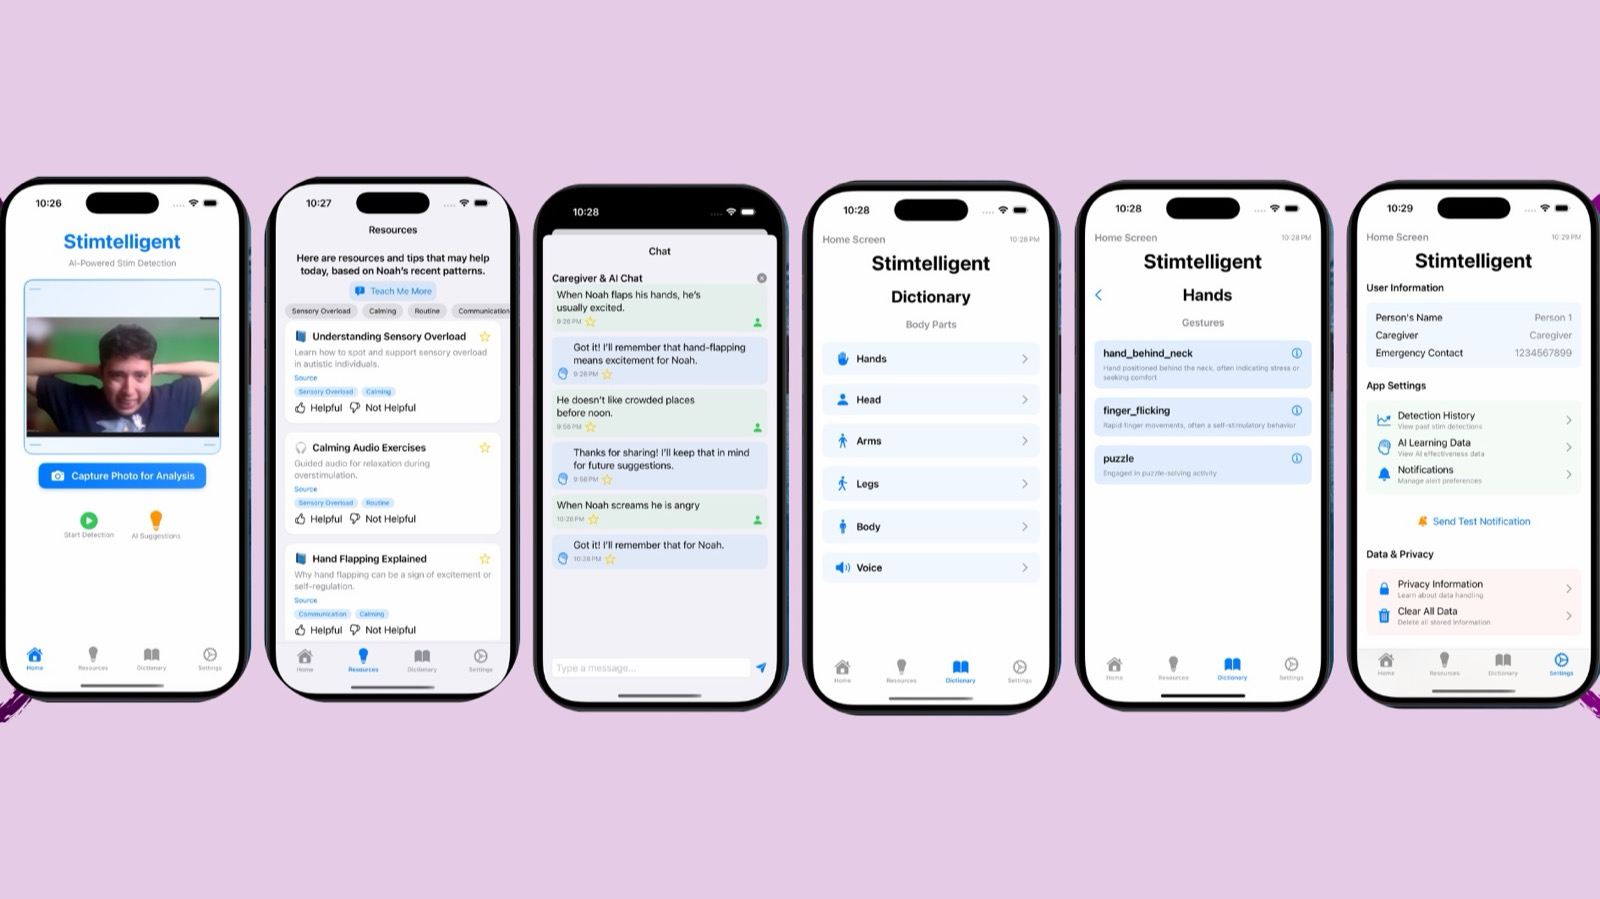
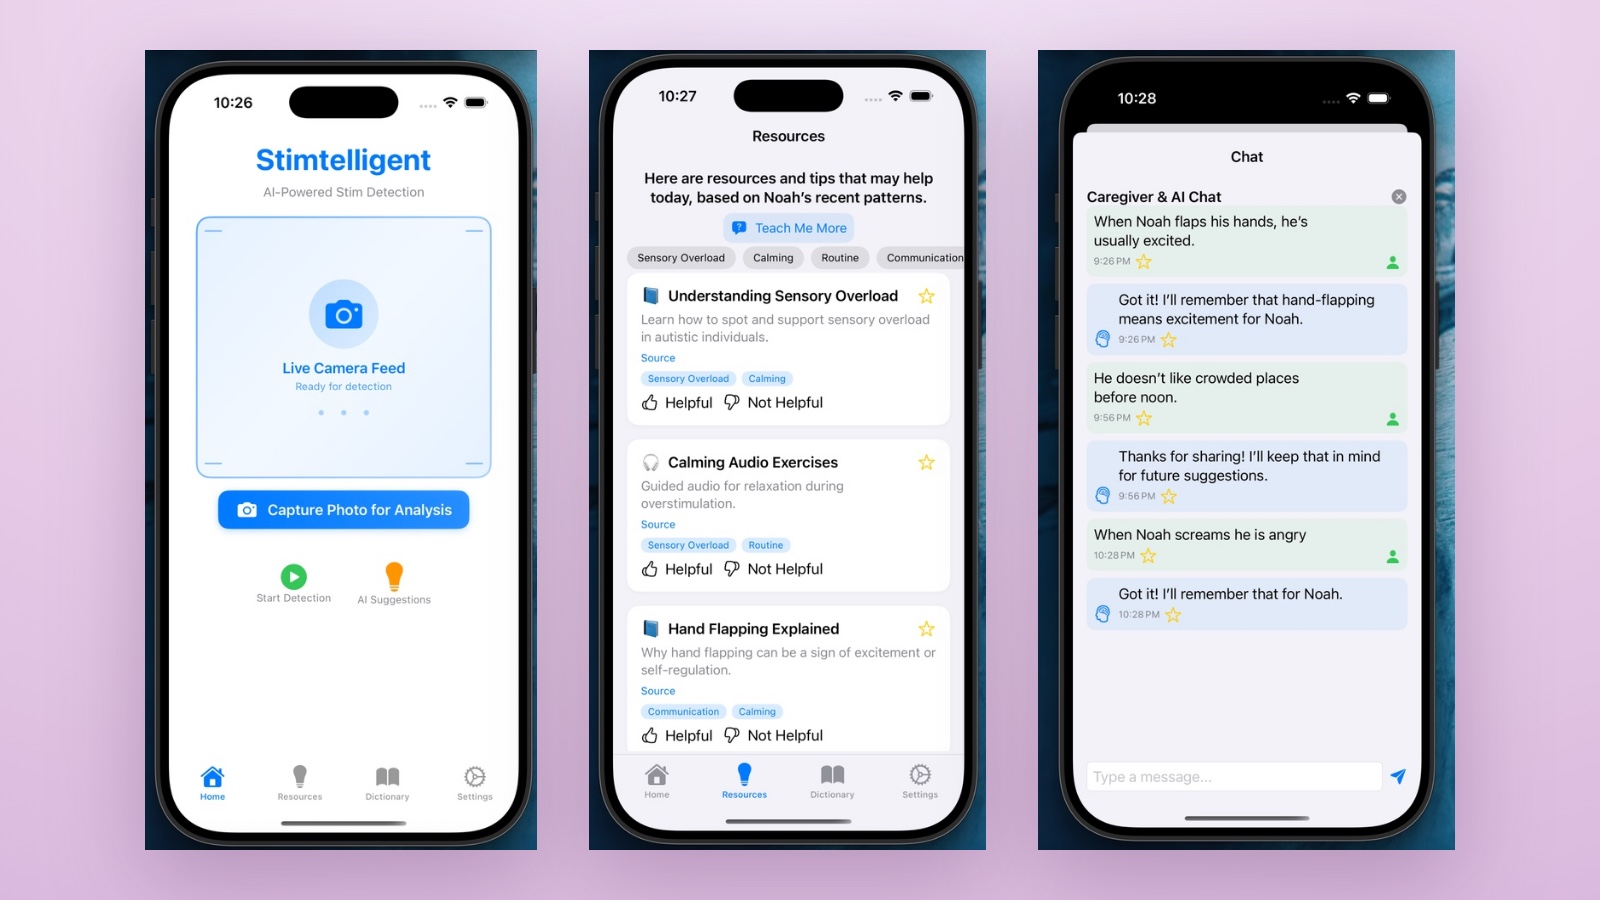
Split Stimtelligent into individual screens, add a lightbox
Six phones across one card thumbnail left every screen about 55px wide -
unreadable no matter the file quality. Two changes fix that:

- Pulled the individual screens out of ECC Stimtelligent.pdf, which carries
  them at ~460x940 rather than the ~300x620 available by slicing the flat
  strip. Trimmed each to its device frame and saved at JPEG q92.
- The card now shows three phones instead of six, so each is roughly twice
  the width it was.

The real fix is a lightbox: every image on the site is now clickable and
opens full size over a dark backdrop, with a zoom affordance on hover.
Stimtelligent's card opens all seven screens as a captioned gallery; a
case-study carousel slide opens its whole set starting where you clicked;
anything else opens on its own. Arrow keys and Escape work, focus is
restored on close, and it respects prefers-reduced-motion.

diff --git a/js/main.js b/js/main.js
@@ -348,6 +348,101 @@
       .catch(() => renderRepos(FALLBACK));
   }
 
+  /* ---------------------------------------------------- lightbox */
+  // Card thumbnails are small by necessity. Clicking one opens it full size —
+  // for Stimtelligent that means the individual screens rather than the strip.
+  const lb = $('#lightbox');
+  if (lb) {
+    const lbImg = $('#lbImage');
+    const lbCap = $('#lbCaption');
+    const prevBtn = $('[data-lb-prev]', lb);
+    const nextBtn = $('[data-lb-next]', lb);
+    let items = [];
+    let at = 0;
+    let lastFocus = null;
+
+    function galleryFor(fig) {
+      // an explicit gallery wins
+      const raw = fig.dataset.gallery;
+      if (raw) {
+        try { return { list: JSON.parse(raw), start: 0 }; } catch (e) { /* fall through */ }
+      }
+      // a carousel slide opens its whole set, starting where you clicked
+      const track = fig.closest('.shots__track');
+      if (track) {
+        const slides = $$('.shot', track);
+        return {
+          list: slides.map((sl) => ({
+            src: sl.querySelector('img').getAttribute('src'),
+            cap: (sl.querySelector('figcaption') || {}).textContent || '',
+          })),
+          start: slides.indexOf(fig),
+        };
+      }
+      const img = fig.querySelector('img');
+      return { list: [{ src: img.getAttribute('src'), cap: img.getAttribute('alt') || '' }], start: 0 };
+    }
+
+    function render() {
+      const it = items[at];
+      lbImg.src = it.src;
+      lbImg.alt = it.cap || '';
+      lbCap.textContent = items.length > 1
+        ? `${it.cap}  ·  ${at + 1} / ${items.length}`
+        : it.cap;
+      const many = items.length > 1;
+      prevBtn.hidden = !many;
+      nextBtn.hidden = !many;
+    }
+
+    function open(fig) {
+      const g = galleryFor(fig);
+      items = g.list;
+      at = g.start;
+      lastFocus = document.activeElement;
+      lb.hidden = false;
+      document.body.style.overflow = 'hidden';
+      render();
+      $('[data-lb-close]', lb).focus();
+    }
+
+    function close() {
+      lb.hidden = true;
+      document.body.style.overflow = '';
+      if (lastFocus) lastFocus.focus();
+    }
+
+    const step = (d) => { at = (at + d + items.length) % items.length; render(); };
+
+    $$('.shot').forEach((fig) => {
+      // a small zoom affordance, so it reads as clickable
+      const hint = document.createElement('span');
+      hint.className = 'shot__zoom';
+      hint.setAttribute('aria-hidden', 'true');
+      hint.innerHTML = '<svg viewBox="0 0 24 24" width="15" height="15" fill="none" stroke="currentColor" stroke-width="2.2" stroke-linecap="round"><circle cx="11" cy="11" r="7"/><path d="M20 20l-3.6-3.6M11 8.4v5.2M8.4 11h5.2"/></svg>';
+      fig.appendChild(hint);
+
+      fig.tabIndex = 0;
+      fig.setAttribute('role', 'button');
+      fig.setAttribute('aria-label', 'Open image full size');
+      fig.addEventListener('click', () => open(fig));
+      fig.addEventListener('keydown', (e) => {
+        if (e.key === 'Enter' || e.key === ' ') { e.preventDefault(); open(fig); }
+      });
+    });
+
+    $$('[data-lb-close]', lb).forEach((el) => el.addEventListener('click', close));
+    prevBtn.addEventListener('click', () => step(-1));
+    nextBtn.addEventListener('click', () => step(1));
+
+    document.addEventListener('keydown', (e) => {
+      if (lb.hidden) return;
+      if (e.key === 'Escape') { e.preventDefault(); close(); }
+      else if (e.key === 'ArrowLeft' && items.length > 1) { e.preventDefault(); step(-1); }
+      else if (e.key === 'ArrowRight' && items.length > 1) { e.preventDefault(); step(1); }
+    });
+  }
+
   /* ---------------------------------------------------- command palette */
   const palette = $('#palette');
   const paletteInput = $('#paletteInput');

diff --git a/index.html b/index.html
@@ -18,7 +18,7 @@
 <link rel="preconnect" href="https://fonts.googleapis.com" />
 <link rel="preconnect" href="https://fonts.gstatic.com" crossorigin />
 <link href="https://fonts.googleapis.com/css2?family=Instrument+Serif:ital@0;1&family=Space+Grotesk:wght@400;500;600;700&family=JetBrains+Mono:wght@400;500&display=swap" rel="stylesheet" />
-<link rel="stylesheet" href="css/styles.css?v=3" />
+<link rel="stylesheet" href="css/styles.css?v=4" />
 <noscript><style>.reveal{opacity:1!important;transform:none!important}.hero__canvas,.scroll-cue{display:none}</style></noscript>
 </head>
 <body>
@@ -515,7 +515,7 @@
       </article>
 
       <article class="card reveal" data-cat="ml app a11y">
-        <figure class="shot shot--thumb" data-src="assets/shots/stimtelligent.jpg">
+        <figure class="shot shot--thumb" data-src="assets/shots/stimtelligent.jpg" data-gallery='[{"src":"assets/shots/stim/stim-01-detection.jpg","cap":"Live detection — the camera feed the caregiver points at a moment"},{"src":"assets/shots/stim/stim-02-resources.jpg","cap":"Resources chosen from the individual\u2019s recent patterns"},{"src":"assets/shots/stim/stim-03-chat.jpg","cap":"Caregiver and AI chat — the app learns what each stim means"},{"src":"assets/shots/stim/stim-04-dictionary.jpg","cap":"Stim dictionary, organised by body part"},{"src":"assets/shots/stim/stim-05-gestures.jpg","cap":"Gestures within a body part, each with an explanation"},{"src":"assets/shots/stim/stim-06-settings.jpg","cap":"Settings — detection history and on-device data controls"},{"src":"assets/shots/stim/stim-07-notification.jpg","cap":"A daily prediction, delivered on the lock screen"}]'>
           <img src="assets/shots/stimtelligent.jpg" alt="Six Stimtelligent screens: live stim detection, caregiver resources, AI chat, the stim dictionary, and settings" loading="lazy" />
         </figure>
         <div class="card__body">
@@ -841,6 +841,26 @@
   </div>
 </footer>
 
+<!-- ============================ LIGHTBOX ============================ -->
+<div class="lb" id="lightbox" hidden>
+  <div class="lb__backdrop" data-lb-close></div>
+  <div class="lb__box" role="dialog" aria-modal="true" aria-label="Image viewer">
+    <button class="lb__close" data-lb-close aria-label="Close viewer">
+      <svg viewBox="0 0 24 24" width="18" height="18" fill="none" stroke="currentColor" stroke-width="2.2" stroke-linecap="round"><path d="M6 6l12 12M18 6L6 18"/></svg>
+    </button>
+    <button class="lb__nav lb__nav--prev" data-lb-prev aria-label="Previous image">
+      <svg viewBox="0 0 24 24" width="20" height="20" fill="none" stroke="currentColor" stroke-width="2.4" stroke-linecap="round" stroke-linejoin="round"><path d="M15 6l-6 6 6 6"/></svg>
+    </button>
+    <figure class="lb__figure">
+      <img id="lbImage" alt="" />
+      <figcaption id="lbCaption"></figcaption>
+    </figure>
+    <button class="lb__nav lb__nav--next" data-lb-next aria-label="Next image">
+      <svg viewBox="0 0 24 24" width="20" height="20" fill="none" stroke="currentColor" stroke-width="2.4" stroke-linecap="round" stroke-linejoin="round"><path d="M9 6l6 6-6 6"/></svg>
+    </button>
+  </div>
+</div>
+
 <!-- ============================ COMMAND PALETTE ============================ -->
 <div class="palette" id="palette" hidden>
   <div class="palette__backdrop" data-palette-close></div>
@@ -854,6 +874,6 @@
   </div>
 </div>
 
-<script src="js/main.js?v=3"></script>
+<script src="js/main.js?v=4"></script>
 </body>
 </html>

diff --git a/css/styles.css b/css/styles.css
@@ -627,6 +627,54 @@ html[data-theme="light"] .hero__glow { opacity: .14; }
 }
 .footer__top:hover { color: var(--accent); }
 
+/* ---------------------------- lightbox ---------------------------- */
+.shot { cursor: zoom-in; }
+.shot::after { pointer-events: none; }
+.shot__zoom {
+  position: absolute; right: 10px; bottom: 10px; z-index: 2;
+  display: grid; place-items: center; width: 28px; height: 28px;
+  border-radius: 8px; color: #fff;
+  background: rgba(12,12,16,.55); backdrop-filter: blur(6px);
+  opacity: 0; transition: opacity .25s;
+}
+.shot:hover .shot__zoom, .shot:focus-within .shot__zoom { opacity: 1; }
+
+.lb { position: fixed; inset: 0; z-index: 400; display: grid; place-items: center; }
+.lb[hidden] { display: none; }
+.lb__backdrop { position: absolute; inset: 0; background: rgba(6,6,9,.9); backdrop-filter: blur(10px); }
+.lb__box {
+  position: relative; display: flex; align-items: center; gap: 10px;
+  max-width: 96vw; animation: lbIn .24s var(--ease);
+}
+@keyframes lbIn { from { opacity: 0; transform: scale(.97) } }
+@media (prefers-reduced-motion: reduce) { .lb__box { animation: none; } }
+
+.lb__figure { margin: 0; display: flex; flex-direction: column; align-items: center; gap: 14px; }
+.lb__figure img {
+  max-width: min(88vw, 1500px); max-height: 82vh; width: auto; height: auto;
+  border-radius: 14px; box-shadow: 0 40px 90px -30px rgba(0,0,0,.9);
+}
+.lb__figure figcaption {
+  font-family: var(--mono); font-size: .78rem; color: #C9CBD4;
+  text-align: center; max-width: 62ch; line-height: 1.5;
+}
+
+.lb__nav, .lb__close {
+  display: grid; place-items: center; flex: none; color: #fff;
+  border: 1px solid rgba(255,255,255,.22); border-radius: 50%;
+  background: rgba(255,255,255,.07); transition: background .2s, border-color .2s;
+}
+.lb__nav { width: 46px; height: 46px; }
+.lb__nav:hover, .lb__close:hover { background: rgba(255,255,255,.16); border-color: rgba(255,255,255,.4); }
+.lb__nav[hidden] { display: none; }
+.lb__close { position: fixed; top: 22px; right: 22px; width: 40px; height: 40px; }
+
+@media (max-width: 720px) {
+  .lb__box { gap: 4px; }
+  .lb__nav { width: 38px; height: 38px; }
+  .lb__figure img { max-width: 84vw; max-height: 72vh; }
+}
+
 /* ---------------------------- command palette ---------------------------- */
 .palette { position: fixed; inset: 0; z-index: 300; display: grid; place-items: start center; padding-top: 14vh; }
 .palette[hidden] { display: none; }
